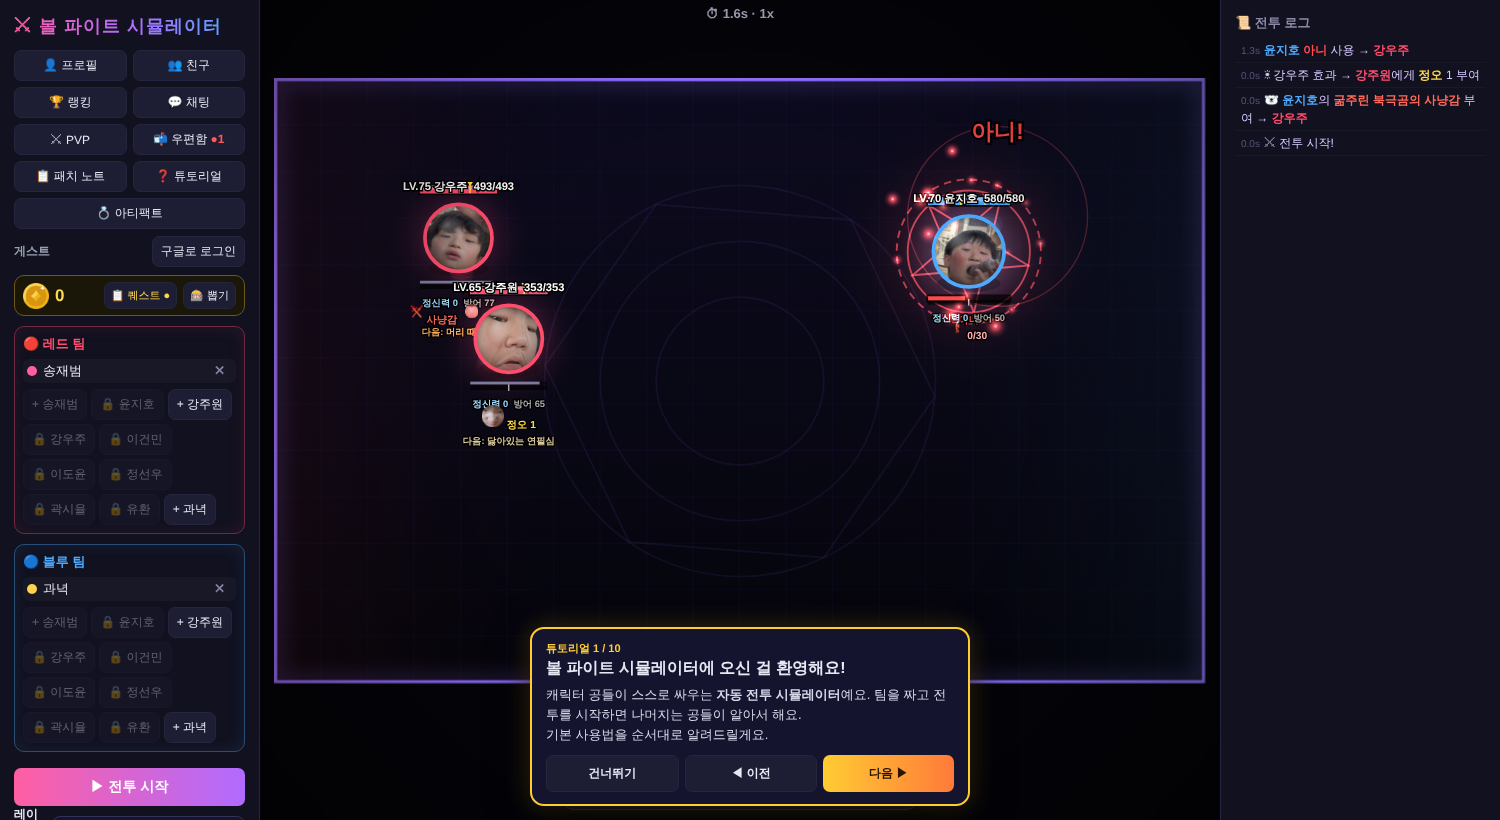
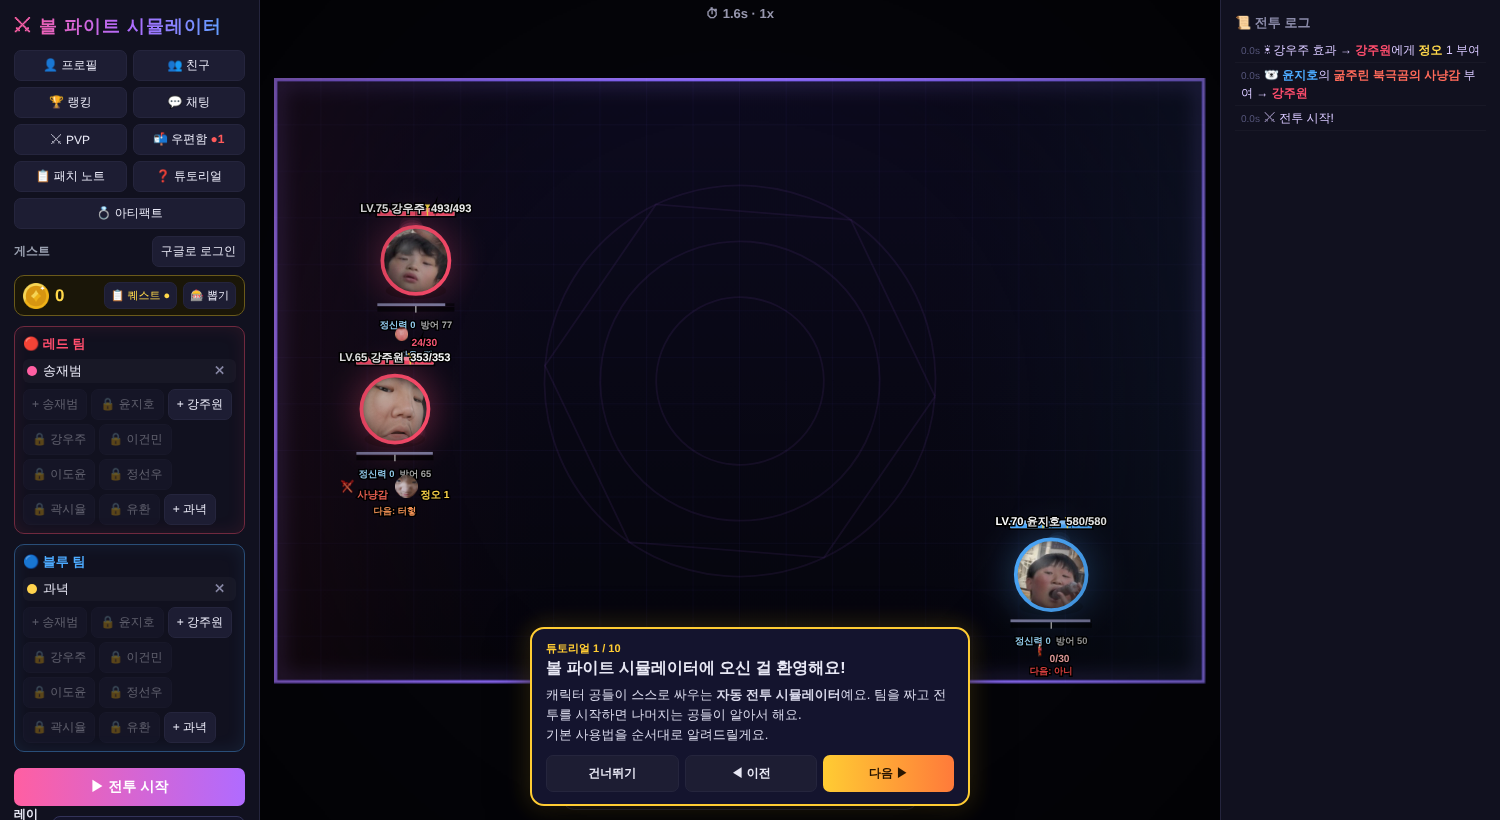
Queen of Hatred magical-girl VFX; show attack-level clash bonus
Claude-Session: https://claude.ai/code/session_011zGi9gVJQ1Coo7UsSWyUEJ

diff --git a/index.html b/index.html
@@ -2624,6 +2624,8 @@ function stepEngagement(e) {
     if (!A.f.alive || !B.f.alive || A.f.away || B.f.away || A.f.stagger > 0 || B.f.stagger > 0) return endEngagement(e);
     const ra = clashPower(A, e.ca, B), rb = clashPower(B, e.cb, A);
     e.round++;
+    if (e.round === 1) { const dl = offLv(A.f, A.sk) - offLv(B.f, B.sk), W2 = dl > 0 ? A : B, bn = Math.floor(Math.abs(dl) / 3);
+      if (bn > 0) { floatText(W2.f.x, W2.f.y - W2.f.r - 58, `공격 레벨 차 ${Math.abs(dl)} → 합 위력 +${bn}`, '#ffb070', 14, { life: 1.1 }); log(`⚔ ${nm(W2.f)} ${sk(W2.sk)}: 공격 레벨 ${Math.abs(dl)} 높음 → 합 위력 +${bn} (3 차이당 +1)`); } }
     const mx = (A.f.x + B.f.x) / 2, my = (A.f.y + B.f.y) / 2;
     floatText(A.f.x, A.f.y - A.f.r - 28, String(ra.p), ra.p >= rb.p ? '#fff27a' : '#999', ra.p >= rb.p ? 34 : 24, { vy: -20, life: 0.5 });
     floatText(B.f.x, B.f.y - B.f.r - 28, String(rb.p), rb.p >= ra.p ? '#fff27a' : '#999', rb.p >= ra.p ? 34 : 24, { vy: -20, life: 0.5 });
@@ -2881,6 +2883,11 @@ function hitCoin(u, t, pow, i, heads, crit) {
     // 과거의 강주원: 화면이 찢어지는 글리치 일격
     slashes.push({ glitchHit: true, x: t.x, y: t.y, tr: t.r, ang: Math.atan2(t.y - f.y, t.x - f.x) + rand(-0.6, 0.6), big: u.sk === 'pjPunch', life: 0.7, max: 0.7, seed: Math.random() * 100 });
     shake = Math.max(shake, u.sk === 'pjPunch' ? 22 : 11);
+  } else if (f.type === 'queen' && (u.sk === 'qLove' || u.sk === 'qJustice' || u.sk === 'arcana')) {
+    // 증오의 여왕: 사랑 = 하트 리본 · 정의 = 금빛 별 · 아르카나 = 마법진 빛줄기
+    const v = u.sk === 'qLove' ? 'love' : u.sk === 'qJustice' ? 'justice' : 'arcana', big = v === 'arcana';
+    slashes.push({ qMagic: true, v, fx: f.x, fy: f.y, fr: f.r, tx: t.x, ty: t.y, tr: t.r, life: big ? 1.1 : 0.75, max: big ? 1.1 : 0.75, seed: Math.random() * 10 });
+    if (v !== 'arcana') { burst(t.x, t.y, v === 'love' ? '#ff9ad8' : '#ffe07a', 18, 420, 9, 0.6, { kind: v === 'love' ? 'heart' : 'spark' }); shake = Math.max(shake, v === 'justice' ? 13 : 9); if (v === 'justice') doFlash('#ffd84a', 0.15); }
   } else if (f.type === 'marksman') {
     // 흉탄의 사수: 총구 화염 → 예광탄 → 관통
     const big = u.sk === 'hyungtan';
@@ -3853,6 +3860,64 @@ const FIRE_PAL = {
   gunmin: ['#ff6a00', '#ff9a1a', '#ffc84a', '#fff6c8'], // 이건민: 새벽의 금빛
   wooju:  ['#ff8a00', '#ffb81a', '#ffe06a', '#ffffff'], // 강우주: 한낮(정오)의 흰 열기
 };
+// 증오의 여왕: 마법소녀풍 — 사랑(분홍 하트 리본) · 정의(금빛 별 각인) · 아르카나(마법진 빔)
+function heartPath(x, y, s) { ctx.beginPath(); ctx.moveTo(x, y + s * 0.9); ctx.bezierCurveTo(x - s * 1.6, y - s * 0.2, x - s * 0.7, y - s * 1.4, x, y - s * 0.5); ctx.bezierCurveTo(x + s * 0.7, y - s * 1.4, x + s * 1.6, y - s * 0.2, x, y + s * 0.9); ctx.closePath(); }
+function starPath(x, y, r, n, inner, rot) { ctx.beginPath(); for (let i = 0; i < n * 2; i++) { const a = rot + i * Math.PI / n - Math.PI / 2, rr = i % 2 ? r * inner : r; ctx.lineTo(x + Math.cos(a) * rr, y + Math.sin(a) * rr); } ctx.closePath(); }
+function sparkle(x, y, r, col, al) { ctx.globalAlpha = al; ctx.fillStyle = col; ctx.beginPath(); ctx.moveTo(x, y - r); ctx.quadraticCurveTo(x, y, x + r, y); ctx.quadraticCurveTo(x, y, x, y + r); ctx.quadraticCurveTo(x, y, x - r, y); ctx.quadraticCurveTo(x, y, x, y - r); ctx.fill(); }
+function drawQueenMagic(sl, k) {
+  const p = 1 - k, X = sl.tx, Y = sl.ty, tr = sl.tr, dx = X - sl.fx, dy = Y - sl.fy, D = Math.hypot(dx, dy) || 1, ux = dx / D, uy = dy / D, nx = -uy, ny = ux, a = Math.atan2(dy, dx);
+  const love = sl.v === 'love', just = sl.v === 'justice', arc = sl.v === 'arcana', C1 = love ? '#ff7ac8' : just ? '#ffd84a' : '#ff4ad8', C2 = love ? '#ffd0ec' : just ? '#fff6c0' : '#ffffff';
+  const TRV = arc ? 0.22 : 0.3, tv = Math.min(1, p / TRV), hit = p < TRV ? 0 : (p - TRV) / (1 - TRV), fade = hit < 0.3 ? 1 : 1 - (hit - 0.3) / 0.7;
+  ctx.save(); ctx.globalCompositeOperation = 'lighter'; ctx.lineCap = 'round';
+  // 시전자 발밑 마법진
+  { const R = sl.fr * (arc ? 2.4 : 1.6), al = Math.min(1, p * 6) * fade, rot = simTime * 2 + sl.seed;
+    ctx.globalAlpha = al * 0.9; ctx.strokeStyle = C1; ctx.lineWidth = 2; ctx.save(); ctx.translate(sl.fx, sl.fy); ctx.scale(1, 0.45);
+    ctx.beginPath(); ctx.arc(0, 0, R, 0, TAU); ctx.stroke(); ctx.beginPath(); ctx.arc(0, 0, R * 0.78, 0, TAU); ctx.stroke();
+    starPath(0, 0, R * 0.78, arc ? 6 : 5, 0.5, rot); ctx.stroke();
+    for (let i = 0; i < 12; i++) { const aa = -rot + i * TAU / 12; ctx.fillStyle = C2; ctx.beginPath(); ctx.arc(Math.cos(aa) * R * 0.89, Math.sin(aa) * R * 0.89, 2.5, 0, TAU); ctx.fill(); }
+    ctx.restore(); }
+  if (love) {
+    // 분홍 리본이 나풀거리며 날아가고, 끝에 하트
+    const M = 30, upto = Math.floor(M * tv);
+    for (const [col, w, al, ph] of [[C1, 10, 0.6, 0], [C2, 3, 0.9, 0], ['#ff4aa8', 6, 0.5, 2.2]]) { ctx.globalAlpha = al * fade; ctx.strokeStyle = col; ctx.lineWidth = w; ctx.beginPath();
+      for (let i = 0; i <= upto; i++) { const q = i / M, wv = Math.sin(q * 12 + ph + simTime * 18) * 24 * Math.sin(Math.PI * q); ctx.lineTo(sl.fx + dx * q + nx * wv, sl.fy + dy * q + ny * wv); } ctx.stroke(); }
+    if (!hit) { const hx = sl.fx + dx * tv, hy = sl.fy + dy * tv; ctx.globalAlpha = 1; ctx.drawImage(glow(C1), hx - 30, hy - 30, 60, 60); heartPath(hx, hy, 12); ctx.fillStyle = C2; ctx.fill(); }
+  } else if (just) {
+    // 금빛 별똥별
+    const sx = sl.fx + dx * tv, sy = sl.fy + dy * tv, tail = Math.min(D * tv, 220);
+    const g = ctx.createLinearGradient(sx - ux * tail, sy - uy * tail, sx, sy); g.addColorStop(0, 'rgba(255,216,74,0)'); g.addColorStop(1, C1);
+    ctx.globalAlpha = fade * (hit ? 1 - hit : 1); ctx.strokeStyle = g; ctx.lineWidth = 12; ctx.beginPath(); ctx.moveTo(sx - ux * tail, sy - uy * tail); ctx.lineTo(sx, sy); ctx.stroke();
+    if (!hit) { ctx.globalAlpha = 1; ctx.drawImage(glow(C1), sx - 34, sy - 34, 68, 68); starPath(sx, sy, 16, 5, 0.45, simTime * 10); ctx.fillStyle = C2; ctx.fill(); }
+    for (let i = 0; i < 6; i++) { const q = ((sl.seed + i * 0.17) % 1) * tv; sparkle(sl.fx + dx * q + nx * Math.sin(i * 5) * 18, sl.fy + dy * q + ny * Math.sin(i * 5) * 18, 6, C2, fade * 0.8); }
+  } else {
+    // 아르카나: 굵은 분홍 빛줄기
+    const bw = (arc ? 46 : 20) * (hit ? 1 - hit * 0.8 : tv);
+    for (const [col, w, al] of [[C1, 1.6, 0.45], ['#ff9ad8', 1, 0.7], ['#ffffff', 0.35, 1]]) { ctx.globalAlpha = al * fade; ctx.strokeStyle = col; ctx.lineWidth = bw * w + Math.sin(simTime * 50) * 3; ctx.beginPath(); ctx.moveTo(sl.fx, sl.fy); ctx.lineTo(sl.fx + dx * tv, sl.fy + dy * tv); ctx.stroke(); }
+    for (let i = 0; i < 14; i++) { const q = (i / 14 + simTime * 1.5) % 1; if (q > tv) continue; sparkle(sl.fx + dx * q + nx * Math.sin(i * 3.3) * bw, sl.fy + dy * q + ny * Math.sin(i * 3.3) * bw, 7, i % 2 ? '#ffffff' : '#ffb0e8', fade); }
+  }
+  if (hit > 0) {
+    const q = hit, e = 1 - Math.pow(1 - q, 2);
+    ctx.globalAlpha = Math.max(0, 1 - q * 3.5); ctx.drawImage(glow('#ffffff'), X - tr * 2, Y - tr * 2, tr * 4, tr * 4);
+    ctx.globalAlpha = (1 - q) * 0.8; ctx.drawImage(glow(C1), X - tr * 3, Y - tr * 3, tr * 6, tr * 6);
+    if (love) {
+      // 하트 충격파 2겹 + 큰 하트가 터짐
+      for (let i = 0; i < 2; i++) { const s2 = tr * (0.6 + e * (1.6 + i * 0.6)); ctx.globalAlpha = (1 - q) * (i ? 0.6 : 0.9); ctx.strokeStyle = i ? C2 : C1; ctx.lineWidth = (i ? 3 : 6) * (1 - q) + 1; heartPath(X, Y + s2 * 0.15, s2); ctx.stroke(); }
+      ctx.globalAlpha = Math.max(0, 1 - q * 2); heartPath(X, Y, tr * (0.5 + q * 0.4)); ctx.fillStyle = C1; ctx.fill();
+      for (let i = 0; i < 8; i++) { const aa = sl.seed + i * TAU / 8, d = tr * (0.8 + e * 2); ctx.globalAlpha = (1 - q); heartPath(X + Math.cos(aa) * d, Y + Math.sin(aa) * d - q * 30, 6 + (i % 2) * 4); ctx.fillStyle = i % 2 ? C2 : '#ff4aa8'; ctx.fill(); }
+    } else if (just) {
+      // 금빛 별 각인 + 십자 빛줄기
+      ctx.globalAlpha = (1 - q); ctx.strokeStyle = C1; ctx.lineWidth = 5 * (1 - q) + 1; starPath(X, Y, tr * (0.8 + e * 2.2), 5, 0.42, sl.seed); ctx.stroke();
+      ctx.globalAlpha = Math.min(1, (1 - q) * 1.6); starPath(X, Y, tr * 0.75, 5, 0.42, sl.seed); ctx.fillStyle = 'rgba(255,216,74,0.55)'; ctx.fill(); ctx.strokeStyle = C2; ctx.lineWidth = 2; ctx.stroke();
+      for (let i = 0; i < 4; i++) { const aa = i * Math.PI / 2 + Math.PI / 4, L = tr * (1.5 + e * 2.5); ctx.globalAlpha = 1 - q; ctx.strokeStyle = C2; ctx.lineWidth = 4 * (1 - q) + 1; ctx.beginPath(); ctx.moveTo(X, Y); ctx.lineTo(X + Math.cos(aa) * L, Y + Math.sin(aa) * L); ctx.stroke(); }
+      for (let i = 0; i < 10; i++) { const aa = sl.seed * 3 + i * TAU / 10, d = tr * (1 + e * 2.4); sparkle(X + Math.cos(aa) * d, Y + Math.sin(aa) * d, 8 * (1 - q) + 2, i % 2 ? C2 : C1, 1 - q); }
+    } else {
+      // 대상 발밑 거대 마법진 + 별
+      const R = tr * (2.2 + e * 1.2), rot = -simTime * 3; ctx.save(); ctx.translate(X, Y); ctx.globalAlpha = 1 - q; ctx.strokeStyle = C1; ctx.lineWidth = 3;
+      ctx.beginPath(); ctx.arc(0, 0, R, 0, TAU); ctx.stroke(); ctx.beginPath(); ctx.arc(0, 0, R * 0.8, 0, TAU); ctx.stroke(); starPath(0, 0, R * 0.8, 6, 0.55, rot); ctx.stroke(); heartPath(0, R * 0.05, R * 0.3); ctx.strokeStyle = '#ffffff'; ctx.stroke(); ctx.restore();
+    }
+  }
+  ctx.restore();
+}
 // 절망의 기사: 차갑고 푸른 검기 + 떨어지는 눈물 + 물결
 function drawTear(x, y, sz, col) { ctx.fillStyle = col; ctx.beginPath(); ctx.moveTo(x, y - sz * 1.8); ctx.quadraticCurveTo(x + sz, y - sz * 0.2, x, y + sz); ctx.quadraticCurveTo(x - sz, y - sz * 0.2, x, y - sz * 1.8); ctx.fill(); }
 function drawDespairSlash(sl, k, a0, a1) {
@@ -4882,6 +4947,7 @@ function render() {
     if (sl.fire) { drawFireSlash(sl, k, a0, a1); continue; }
     if (sl.despairSl) { drawDespairSlash(sl, k, a0, a1); continue; }
     if (sl.gunshot) { drawGunshot(sl, k); continue; }
+    if (sl.qMagic) { drawQueenMagic(sl, k); continue; }
     ctx.save(); ctx.translate(sl.x, sl.y);
     // 검기 (초승달 모양 회색 궤적)
     const lo = Math.min(a0, a1), hi = Math.max(a0, a1);
@@ -5674,6 +5740,7 @@ const UPG_FX = {
 // ================== 패치 노트 ==================
 // 업데이트할 때마다 맨 위에 항목을 추가 → 처음 접속할 때 자동으로 한 번 표시됨
 const PATCH_NOTES = [
+  { v: '7.8', date: '2026-11-20', items: ['증오의 여왕 공격 이펙트 추가: 사랑으로!(분홍 하트 리본 · 하트 충격파) · 정의의 이름으로!(금빛 별똥별 · 별 각인) · 아르카나 슬레이브!(마법진 빛줄기 · 거대 마법진) · 발밑 마법진', '합: 공격 레벨 3 차이당 합 위력 +1 — 적용될 때 화면과 로그에 보너스가 표시돼요'] },
   { v: '7.7', date: '2026-11-20', items: ['절망의 기사 공격 이펙트 리메이크: 시린 푸른 초승달 검기 · 검 잔상 · 얼음 결정 · 금 간 충격선 · 떨어지는 눈물방울 · 바닥 물결 (텅 빈 절망은 눈물비)', '흉탄의 사수 공격 이펙트 추가: 총구 화염 · 예광탄 · 관통 섬광 · 총알 구멍 · 튀어나가는 탄피 (흉탄은 더 크고 붉게)'] },
   { v: '7.6', date: '2026-11-20', items: ['과거의 강주원 공격 이펙트 리메이크: 되감기 잔상이 모여듦 → RGB가 갈라지는 칼날 참격 · 실제로 화면이 찢어지는 글리치 · 픽셀 붕괴 · 네모난 충격파 · 깨진 타임코드 (슈뻘맨펀치는 십자 참격)'] },
   { v: '7.5', date: '2026-11-20', items: ['강우주 - 암흑진화 공격 이펙트 리메이크: 발밑 어둠의 균열 · 가시 돋친 촉수 다발 · 보라 번개 → 소용돌이치는 블랙홀 붕괴 → 어둠 폭발'] },

diff --git a/test/index.html b/test/index.html
@@ -2625,6 +2625,8 @@ function stepEngagement(e) {
     if (!A.f.alive || !B.f.alive || A.f.away || B.f.away || A.f.stagger > 0 || B.f.stagger > 0) return endEngagement(e);
     const ra = clashPower(A, e.ca, B), rb = clashPower(B, e.cb, A);
     e.round++;
+    if (e.round === 1) { const dl = offLv(A.f, A.sk) - offLv(B.f, B.sk), W2 = dl > 0 ? A : B, bn = Math.floor(Math.abs(dl) / 3);
+      if (bn > 0) { floatText(W2.f.x, W2.f.y - W2.f.r - 58, `공격 레벨 차 ${Math.abs(dl)} → 합 위력 +${bn}`, '#ffb070', 14, { life: 1.1 }); log(`⚔ ${nm(W2.f)} ${sk(W2.sk)}: 공격 레벨 ${Math.abs(dl)} 높음 → 합 위력 +${bn} (3 차이당 +1)`); } }
     const mx = (A.f.x + B.f.x) / 2, my = (A.f.y + B.f.y) / 2;
     floatText(A.f.x, A.f.y - A.f.r - 28, String(ra.p), ra.p >= rb.p ? '#fff27a' : '#999', ra.p >= rb.p ? 34 : 24, { vy: -20, life: 0.5 });
     floatText(B.f.x, B.f.y - B.f.r - 28, String(rb.p), rb.p >= ra.p ? '#fff27a' : '#999', rb.p >= ra.p ? 34 : 24, { vy: -20, life: 0.5 });
@@ -2882,6 +2884,11 @@ function hitCoin(u, t, pow, i, heads, crit) {
     // 과거의 강주원: 화면이 찢어지는 글리치 일격
     slashes.push({ glitchHit: true, x: t.x, y: t.y, tr: t.r, ang: Math.atan2(t.y - f.y, t.x - f.x) + rand(-0.6, 0.6), big: u.sk === 'pjPunch', life: 0.7, max: 0.7, seed: Math.random() * 100 });
     shake = Math.max(shake, u.sk === 'pjPunch' ? 22 : 11);
+  } else if (f.type === 'queen' && (u.sk === 'qLove' || u.sk === 'qJustice' || u.sk === 'arcana')) {
+    // 증오의 여왕: 사랑 = 하트 리본 · 정의 = 금빛 별 · 아르카나 = 마법진 빛줄기
+    const v = u.sk === 'qLove' ? 'love' : u.sk === 'qJustice' ? 'justice' : 'arcana', big = v === 'arcana';
+    slashes.push({ qMagic: true, v, fx: f.x, fy: f.y, fr: f.r, tx: t.x, ty: t.y, tr: t.r, life: big ? 1.1 : 0.75, max: big ? 1.1 : 0.75, seed: Math.random() * 10 });
+    if (v !== 'arcana') { burst(t.x, t.y, v === 'love' ? '#ff9ad8' : '#ffe07a', 18, 420, 9, 0.6, { kind: v === 'love' ? 'heart' : 'spark' }); shake = Math.max(shake, v === 'justice' ? 13 : 9); if (v === 'justice') doFlash('#ffd84a', 0.15); }
   } else if (f.type === 'marksman') {
     // 흉탄의 사수: 총구 화염 → 예광탄 → 관통
     const big = u.sk === 'hyungtan';
@@ -3854,6 +3861,64 @@ const FIRE_PAL = {
   gunmin: ['#ff6a00', '#ff9a1a', '#ffc84a', '#fff6c8'], // 이건민: 새벽의 금빛
   wooju:  ['#ff8a00', '#ffb81a', '#ffe06a', '#ffffff'], // 강우주: 한낮(정오)의 흰 열기
 };
+// 증오의 여왕: 마법소녀풍 — 사랑(분홍 하트 리본) · 정의(금빛 별 각인) · 아르카나(마법진 빔)
+function heartPath(x, y, s) { ctx.beginPath(); ctx.moveTo(x, y + s * 0.9); ctx.bezierCurveTo(x - s * 1.6, y - s * 0.2, x - s * 0.7, y - s * 1.4, x, y - s * 0.5); ctx.bezierCurveTo(x + s * 0.7, y - s * 1.4, x + s * 1.6, y - s * 0.2, x, y + s * 0.9); ctx.closePath(); }
+function starPath(x, y, r, n, inner, rot) { ctx.beginPath(); for (let i = 0; i < n * 2; i++) { const a = rot + i * Math.PI / n - Math.PI / 2, rr = i % 2 ? r * inner : r; ctx.lineTo(x + Math.cos(a) * rr, y + Math.sin(a) * rr); } ctx.closePath(); }
+function sparkle(x, y, r, col, al) { ctx.globalAlpha = al; ctx.fillStyle = col; ctx.beginPath(); ctx.moveTo(x, y - r); ctx.quadraticCurveTo(x, y, x + r, y); ctx.quadraticCurveTo(x, y, x, y + r); ctx.quadraticCurveTo(x, y, x - r, y); ctx.quadraticCurveTo(x, y, x, y - r); ctx.fill(); }
+function drawQueenMagic(sl, k) {
+  const p = 1 - k, X = sl.tx, Y = sl.ty, tr = sl.tr, dx = X - sl.fx, dy = Y - sl.fy, D = Math.hypot(dx, dy) || 1, ux = dx / D, uy = dy / D, nx = -uy, ny = ux, a = Math.atan2(dy, dx);
+  const love = sl.v === 'love', just = sl.v === 'justice', arc = sl.v === 'arcana', C1 = love ? '#ff7ac8' : just ? '#ffd84a' : '#ff4ad8', C2 = love ? '#ffd0ec' : just ? '#fff6c0' : '#ffffff';
+  const TRV = arc ? 0.22 : 0.3, tv = Math.min(1, p / TRV), hit = p < TRV ? 0 : (p - TRV) / (1 - TRV), fade = hit < 0.3 ? 1 : 1 - (hit - 0.3) / 0.7;
+  ctx.save(); ctx.globalCompositeOperation = 'lighter'; ctx.lineCap = 'round';
+  // 시전자 발밑 마법진
+  { const R = sl.fr * (arc ? 2.4 : 1.6), al = Math.min(1, p * 6) * fade, rot = simTime * 2 + sl.seed;
+    ctx.globalAlpha = al * 0.9; ctx.strokeStyle = C1; ctx.lineWidth = 2; ctx.save(); ctx.translate(sl.fx, sl.fy); ctx.scale(1, 0.45);
+    ctx.beginPath(); ctx.arc(0, 0, R, 0, TAU); ctx.stroke(); ctx.beginPath(); ctx.arc(0, 0, R * 0.78, 0, TAU); ctx.stroke();
+    starPath(0, 0, R * 0.78, arc ? 6 : 5, 0.5, rot); ctx.stroke();
+    for (let i = 0; i < 12; i++) { const aa = -rot + i * TAU / 12; ctx.fillStyle = C2; ctx.beginPath(); ctx.arc(Math.cos(aa) * R * 0.89, Math.sin(aa) * R * 0.89, 2.5, 0, TAU); ctx.fill(); }
+    ctx.restore(); }
+  if (love) {
+    // 분홍 리본이 나풀거리며 날아가고, 끝에 하트
+    const M = 30, upto = Math.floor(M * tv);
+    for (const [col, w, al, ph] of [[C1, 10, 0.6, 0], [C2, 3, 0.9, 0], ['#ff4aa8', 6, 0.5, 2.2]]) { ctx.globalAlpha = al * fade; ctx.strokeStyle = col; ctx.lineWidth = w; ctx.beginPath();
+      for (let i = 0; i <= upto; i++) { const q = i / M, wv = Math.sin(q * 12 + ph + simTime * 18) * 24 * Math.sin(Math.PI * q); ctx.lineTo(sl.fx + dx * q + nx * wv, sl.fy + dy * q + ny * wv); } ctx.stroke(); }
+    if (!hit) { const hx = sl.fx + dx * tv, hy = sl.fy + dy * tv; ctx.globalAlpha = 1; ctx.drawImage(glow(C1), hx - 30, hy - 30, 60, 60); heartPath(hx, hy, 12); ctx.fillStyle = C2; ctx.fill(); }
+  } else if (just) {
+    // 금빛 별똥별
+    const sx = sl.fx + dx * tv, sy = sl.fy + dy * tv, tail = Math.min(D * tv, 220);
+    const g = ctx.createLinearGradient(sx - ux * tail, sy - uy * tail, sx, sy); g.addColorStop(0, 'rgba(255,216,74,0)'); g.addColorStop(1, C1);
+    ctx.globalAlpha = fade * (hit ? 1 - hit : 1); ctx.strokeStyle = g; ctx.lineWidth = 12; ctx.beginPath(); ctx.moveTo(sx - ux * tail, sy - uy * tail); ctx.lineTo(sx, sy); ctx.stroke();
+    if (!hit) { ctx.globalAlpha = 1; ctx.drawImage(glow(C1), sx - 34, sy - 34, 68, 68); starPath(sx, sy, 16, 5, 0.45, simTime * 10); ctx.fillStyle = C2; ctx.fill(); }
+    for (let i = 0; i < 6; i++) { const q = ((sl.seed + i * 0.17) % 1) * tv; sparkle(sl.fx + dx * q + nx * Math.sin(i * 5) * 18, sl.fy + dy * q + ny * Math.sin(i * 5) * 18, 6, C2, fade * 0.8); }
+  } else {
+    // 아르카나: 굵은 분홍 빛줄기
+    const bw = (arc ? 46 : 20) * (hit ? 1 - hit * 0.8 : tv);
+    for (const [col, w, al] of [[C1, 1.6, 0.45], ['#ff9ad8', 1, 0.7], ['#ffffff', 0.35, 1]]) { ctx.globalAlpha = al * fade; ctx.strokeStyle = col; ctx.lineWidth = bw * w + Math.sin(simTime * 50) * 3; ctx.beginPath(); ctx.moveTo(sl.fx, sl.fy); ctx.lineTo(sl.fx + dx * tv, sl.fy + dy * tv); ctx.stroke(); }
+    for (let i = 0; i < 14; i++) { const q = (i / 14 + simTime * 1.5) % 1; if (q > tv) continue; sparkle(sl.fx + dx * q + nx * Math.sin(i * 3.3) * bw, sl.fy + dy * q + ny * Math.sin(i * 3.3) * bw, 7, i % 2 ? '#ffffff' : '#ffb0e8', fade); }
+  }
+  if (hit > 0) {
+    const q = hit, e = 1 - Math.pow(1 - q, 2);
+    ctx.globalAlpha = Math.max(0, 1 - q * 3.5); ctx.drawImage(glow('#ffffff'), X - tr * 2, Y - tr * 2, tr * 4, tr * 4);
+    ctx.globalAlpha = (1 - q) * 0.8; ctx.drawImage(glow(C1), X - tr * 3, Y - tr * 3, tr * 6, tr * 6);
+    if (love) {
+      // 하트 충격파 2겹 + 큰 하트가 터짐
+      for (let i = 0; i < 2; i++) { const s2 = tr * (0.6 + e * (1.6 + i * 0.6)); ctx.globalAlpha = (1 - q) * (i ? 0.6 : 0.9); ctx.strokeStyle = i ? C2 : C1; ctx.lineWidth = (i ? 3 : 6) * (1 - q) + 1; heartPath(X, Y + s2 * 0.15, s2); ctx.stroke(); }
+      ctx.globalAlpha = Math.max(0, 1 - q * 2); heartPath(X, Y, tr * (0.5 + q * 0.4)); ctx.fillStyle = C1; ctx.fill();
+      for (let i = 0; i < 8; i++) { const aa = sl.seed + i * TAU / 8, d = tr * (0.8 + e * 2); ctx.globalAlpha = (1 - q); heartPath(X + Math.cos(aa) * d, Y + Math.sin(aa) * d - q * 30, 6 + (i % 2) * 4); ctx.fillStyle = i % 2 ? C2 : '#ff4aa8'; ctx.fill(); }
+    } else if (just) {
+      // 금빛 별 각인 + 십자 빛줄기
+      ctx.globalAlpha = (1 - q); ctx.strokeStyle = C1; ctx.lineWidth = 5 * (1 - q) + 1; starPath(X, Y, tr * (0.8 + e * 2.2), 5, 0.42, sl.seed); ctx.stroke();
+      ctx.globalAlpha = Math.min(1, (1 - q) * 1.6); starPath(X, Y, tr * 0.75, 5, 0.42, sl.seed); ctx.fillStyle = 'rgba(255,216,74,0.55)'; ctx.fill(); ctx.strokeStyle = C2; ctx.lineWidth = 2; ctx.stroke();
+      for (let i = 0; i < 4; i++) { const aa = i * Math.PI / 2 + Math.PI / 4, L = tr * (1.5 + e * 2.5); ctx.globalAlpha = 1 - q; ctx.strokeStyle = C2; ctx.lineWidth = 4 * (1 - q) + 1; ctx.beginPath(); ctx.moveTo(X, Y); ctx.lineTo(X + Math.cos(aa) * L, Y + Math.sin(aa) * L); ctx.stroke(); }
+      for (let i = 0; i < 10; i++) { const aa = sl.seed * 3 + i * TAU / 10, d = tr * (1 + e * 2.4); sparkle(X + Math.cos(aa) * d, Y + Math.sin(aa) * d, 8 * (1 - q) + 2, i % 2 ? C2 : C1, 1 - q); }
+    } else {
+      // 대상 발밑 거대 마법진 + 별
+      const R = tr * (2.2 + e * 1.2), rot = -simTime * 3; ctx.save(); ctx.translate(X, Y); ctx.globalAlpha = 1 - q; ctx.strokeStyle = C1; ctx.lineWidth = 3;
+      ctx.beginPath(); ctx.arc(0, 0, R, 0, TAU); ctx.stroke(); ctx.beginPath(); ctx.arc(0, 0, R * 0.8, 0, TAU); ctx.stroke(); starPath(0, 0, R * 0.8, 6, 0.55, rot); ctx.stroke(); heartPath(0, R * 0.05, R * 0.3); ctx.strokeStyle = '#ffffff'; ctx.stroke(); ctx.restore();
+    }
+  }
+  ctx.restore();
+}
 // 절망의 기사: 차갑고 푸른 검기 + 떨어지는 눈물 + 물결
 function drawTear(x, y, sz, col) { ctx.fillStyle = col; ctx.beginPath(); ctx.moveTo(x, y - sz * 1.8); ctx.quadraticCurveTo(x + sz, y - sz * 0.2, x, y + sz); ctx.quadraticCurveTo(x - sz, y - sz * 0.2, x, y - sz * 1.8); ctx.fill(); }
 function drawDespairSlash(sl, k, a0, a1) {
@@ -4883,6 +4948,7 @@ function render() {
     if (sl.fire) { drawFireSlash(sl, k, a0, a1); continue; }
     if (sl.despairSl) { drawDespairSlash(sl, k, a0, a1); continue; }
     if (sl.gunshot) { drawGunshot(sl, k); continue; }
+    if (sl.qMagic) { drawQueenMagic(sl, k); continue; }
     ctx.save(); ctx.translate(sl.x, sl.y);
     // 검기 (초승달 모양 회색 궤적)
     const lo = Math.min(a0, a1), hi = Math.max(a0, a1);
@@ -5675,6 +5741,7 @@ const UPG_FX = {
 // ================== 패치 노트 ==================
 // 업데이트할 때마다 맨 위에 항목을 추가 → 처음 접속할 때 자동으로 한 번 표시됨
 const PATCH_NOTES = [
+  { v: '7.8', date: '2026-11-20', items: ['증오의 여왕 공격 이펙트 추가: 사랑으로!(분홍 하트 리본 · 하트 충격파) · 정의의 이름으로!(금빛 별똥별 · 별 각인) · 아르카나 슬레이브!(마법진 빛줄기 · 거대 마법진) · 발밑 마법진', '합: 공격 레벨 3 차이당 합 위력 +1 — 적용될 때 화면과 로그에 보너스가 표시돼요'] },
   { v: '7.7', date: '2026-11-20', items: ['절망의 기사 공격 이펙트 리메이크: 시린 푸른 초승달 검기 · 검 잔상 · 얼음 결정 · 금 간 충격선 · 떨어지는 눈물방울 · 바닥 물결 (텅 빈 절망은 눈물비)', '흉탄의 사수 공격 이펙트 추가: 총구 화염 · 예광탄 · 관통 섬광 · 총알 구멍 · 튀어나가는 탄피 (흉탄은 더 크고 붉게)'] },
   { v: '7.6', date: '2026-11-20', items: ['과거의 강주원 공격 이펙트 리메이크: 되감기 잔상이 모여듦 → RGB가 갈라지는 칼날 참격 · 실제로 화면이 찢어지는 글리치 · 픽셀 붕괴 · 네모난 충격파 · 깨진 타임코드 (슈뻘맨펀치는 십자 참격)'] },
   { v: '7.5', date: '2026-11-20', items: ['강우주 - 암흑진화 공격 이펙트 리메이크: 발밑 어둠의 균열 · 가시 돋친 촉수 다발 · 보라 번개 → 소용돌이치는 블랙홀 붕괴 → 어둠 폭발'] },
